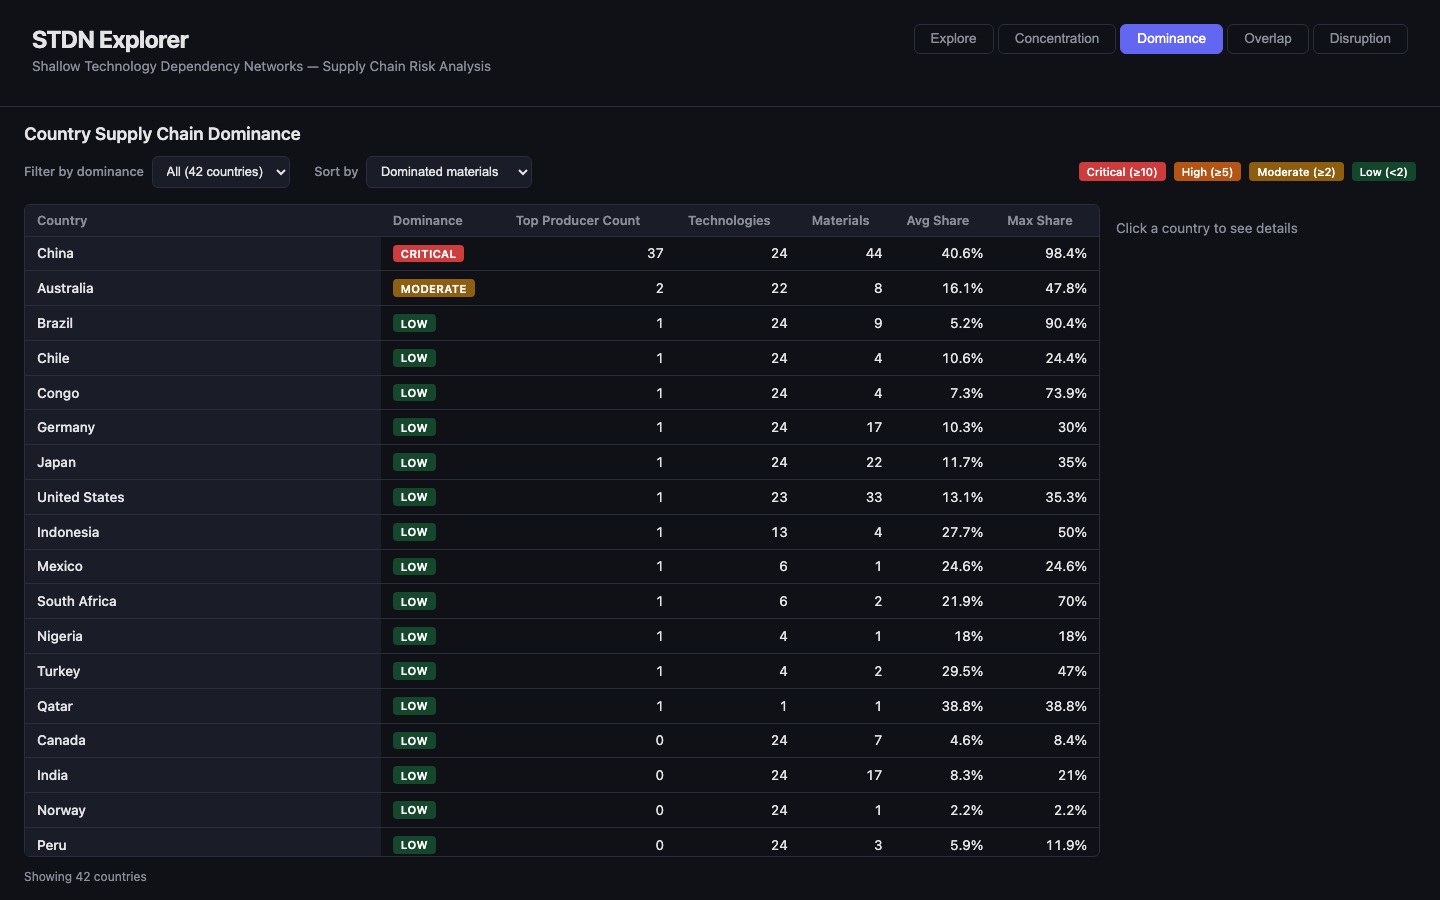
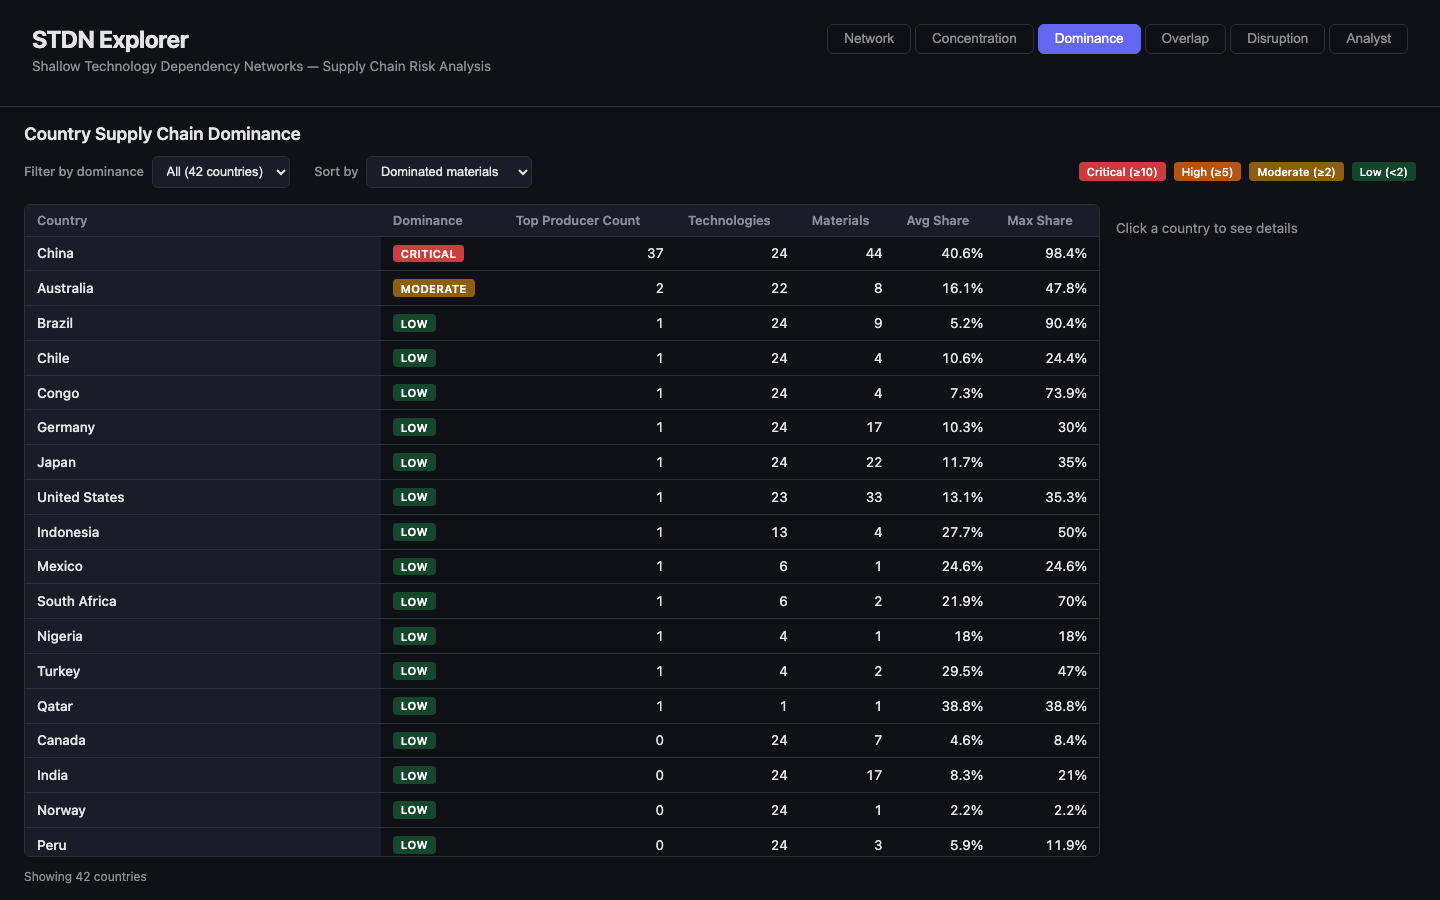
Update README and screenshots for Analyst tab and cross-tab navigation

Changed region(s): [[0.5938, 0.0, 0.9688, 0.0622]]

diff --git a/README.md b/README.md
@@ -19,7 +19,7 @@ The dataset covers **24 technologies**, **72 components**, **51 materials**, and
 ## Dashboard Views
 
 ### Explore
-Interactive graph visualization (Cytoscape.js) showing the full 4-layer dependency network for a selected technology. Click nodes to inspect connected edges, material shares, and data provenance (USGS vs. LLM-estimated).
+Interactive graph visualization (Cytoscape.js) showing the full 4-layer dependency network for a selected technology. Click nodes to inspect connected edges, material shares, and data provenance (USGS vs. LLM-estimated). Material and country nodes include navigation buttons to jump to related views.
 
 ![Explore view](docs/screenshots/explore.png)
 
@@ -42,6 +42,28 @@ Cross-technology systemic risk view. Identifies materials and countries shared a
 "What if" simulator. Select a country to disrupt and see per-technology severity assessments (Critical/High/Moderate/Low), affected materials, and maximum share lost.
 
 ![Disruption view](docs/screenshots/disruption.png)
+
+### Analyst
+Template-based policy analysis tool that generates structured supply chain risk assessments from the STDN dataset — no LLM required at runtime. Choose from 5 query templates:
+
+1. **Supply chain risks for [technology]** — HHI concentration, critical materials, top producers
+2. **Disruption impact of [country]** — affected technologies/materials by severity
+3. **Highest concentration risks** — cross-technology HHI analysis, systemic chokepoints
+4. **Country dominance of [country]** — dominated materials, technologies affected
+5. **Cross-technology shared materials** — overlap data, systemic risk
+
+Each response follows a structured 4-section format: Risk Assessment, Vulnerability Analysis, Policy Implications, and Mitigation Strategies — matching the case study format from the SIGIR paper.
+
+![Analyst view](docs/screenshots/analyst.png)
+
+### Cross-Tab Navigation
+Material and country nodes on the Network tab include contextual navigation buttons:
+- **Material nodes**: "See Technology/Material Country Concentration" (→ Concentration tab with cell selected) and "See Cross-Technology Material Overlap" (→ Overlap tab, greyed out for single-technology materials)
+- **Country nodes**: "Material Dominance" (→ Dominance tab with country row highlighted)
+
+Target tabs auto-scroll to the highlighted row/cell.
+
+![Cross-tab navigation](docs/screenshots/navigation.png)
 
 ## Getting Started
 
@@ -88,7 +110,7 @@ stdn-explorer/
 │   └── pyproject.toml
 ├── frontend/
 │   └── src/
-│       ├── App.tsx           # Tab navigation (5 views)
+│       ├── App.tsx           # Tab navigation (6 views)
 │       ├── App.css           # Dark theme styles
 │       ├── components/
 │       │   ├── StdnGraph.tsx           # Cytoscape.js graph view
@@ -96,8 +118,16 @@ stdn-explorer/
 │       │   ├── CountryExposure.tsx      # Country dominance table
 │       │   ├── CrossTechOverlap.tsx     # Systemic risk overlap
 │       │   ├── DisruptionSimulator.tsx  # What-if simulator
-│       │   ├── NodeDetail.tsx           # Graph node detail panel
-│       │   └── TechSelector.tsx         # Technology dropdown
+│       │   ├── PolicyAnalyst.tsx        # Template-based policy analysis
+│       │   ├── NodeDetail.tsx           # Graph node detail panel + nav buttons
+│       │   ├── TechSelector.tsx         # Technology dropdown
+│       │   └── analyst/
+│       │       ├── types.ts                    # Analyst type definitions
+│       │       ├── queryTemplates.ts            # 5 query template definitions
+│       │       ├── analysisGenerators.ts        # Data → structured analysis
+│       │       ├── AnalystChat.tsx              # Scrollable message list
+│       │       ├── AnalystMessage.tsx           # Chat bubble component
+│       │       └── AnalystResponseRenderer.tsx  # Section renderer (tables, stats)
 │       └── hooks/
 │           └── useApi.ts     # Generic fetch hook
 └── data/
